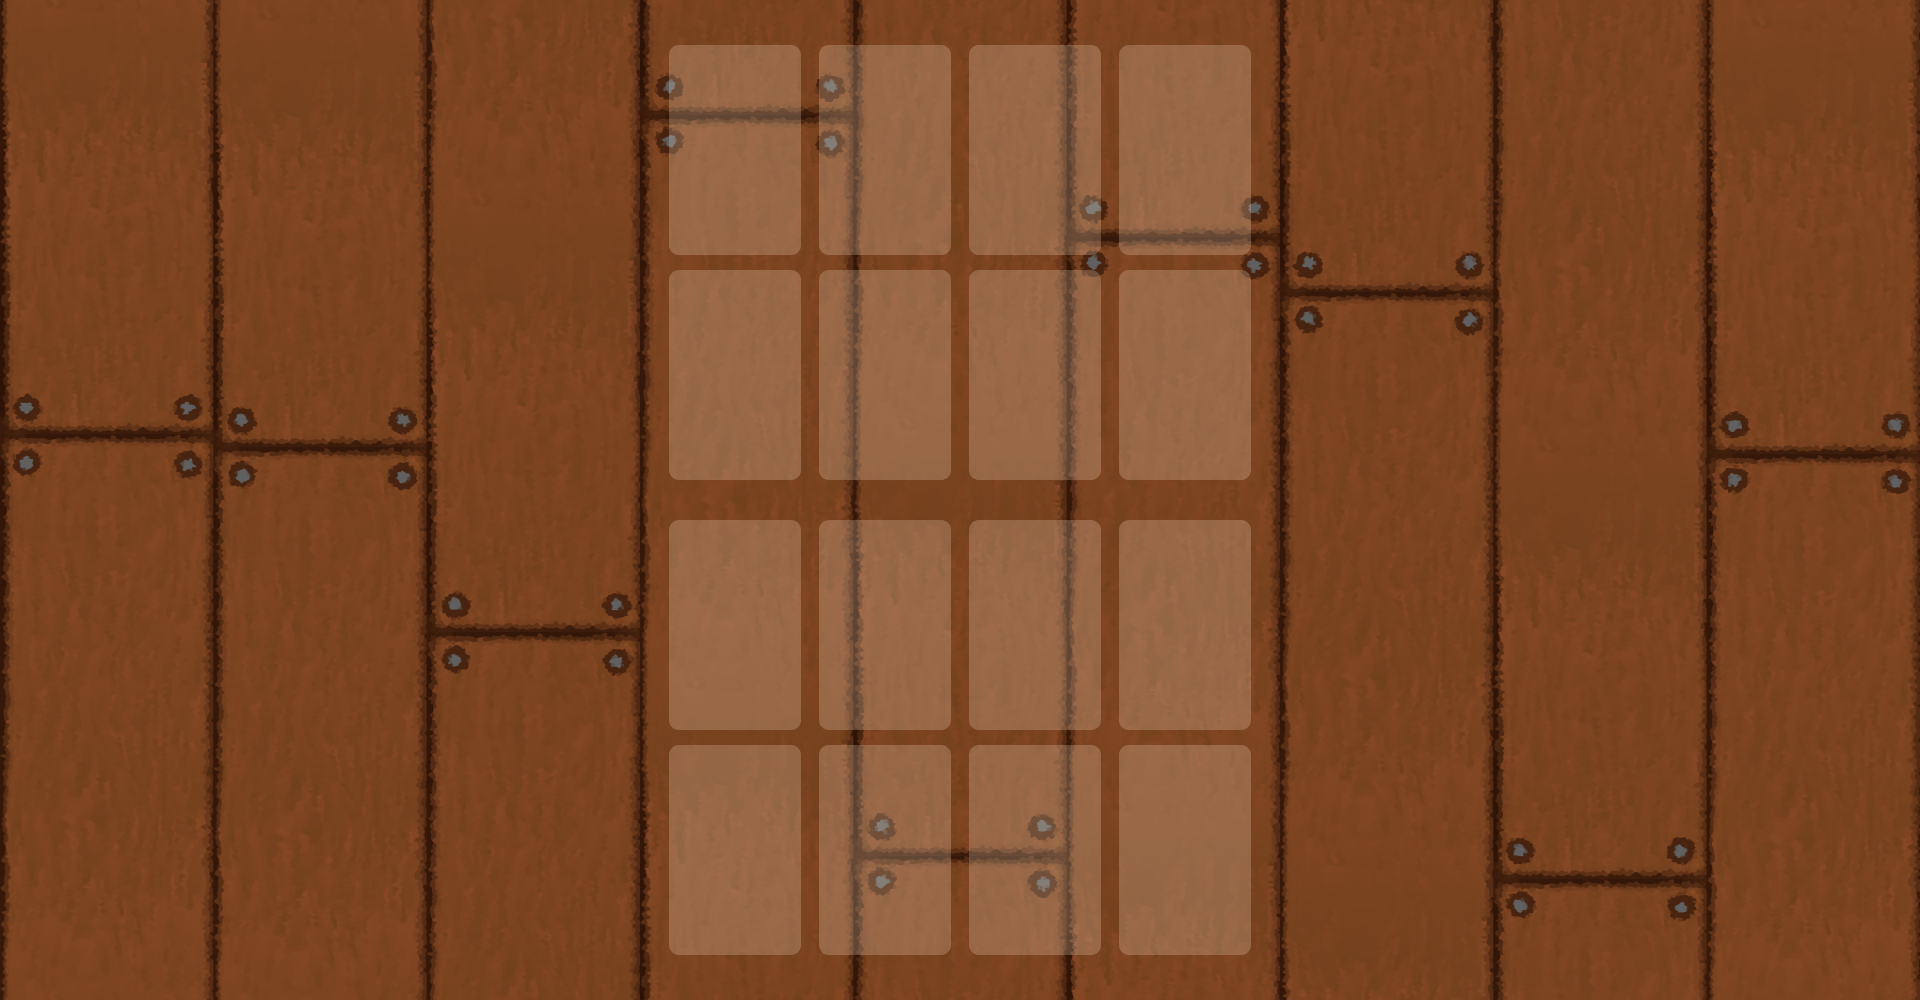
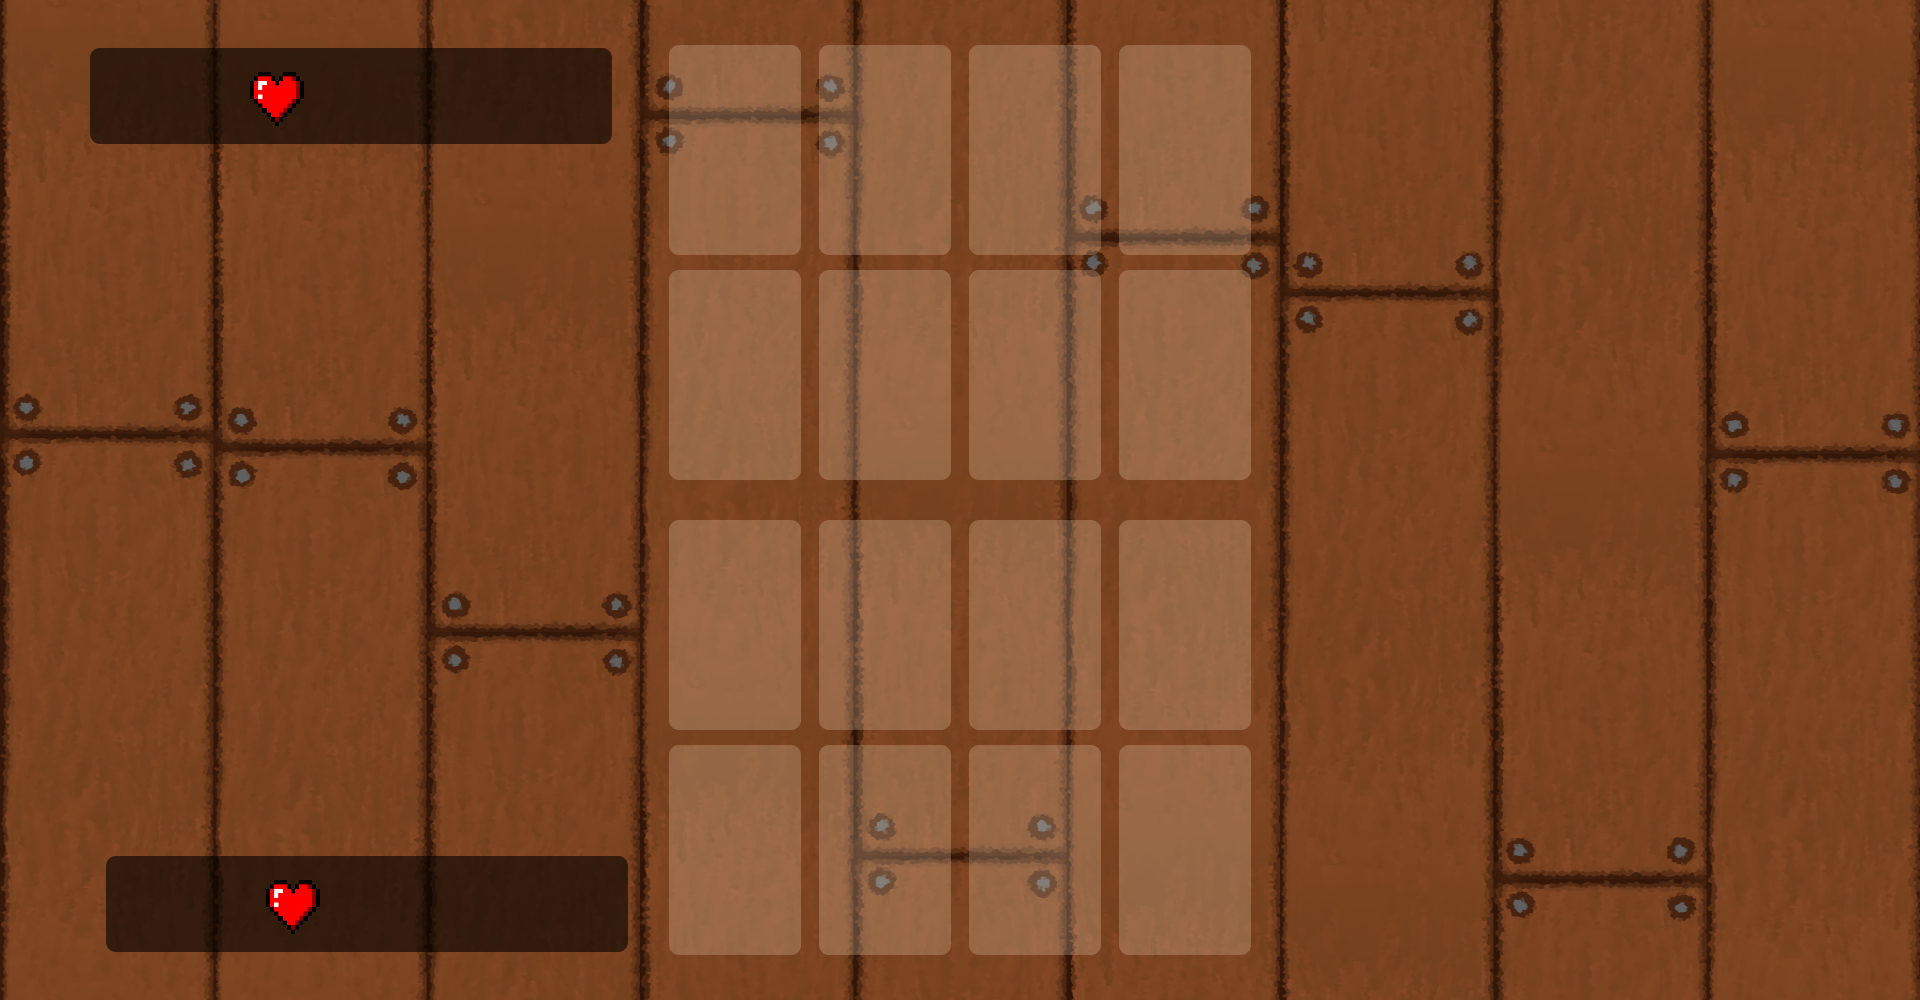
made cardboard a little prettier

Changed region(s): [[0.0312, 0.837, 0.3438, 0.961], [0.0312, 0.031, 0.3438, 0.155]]

diff --git a/GameWorld.cs b/GameWorld.cs
@@ -931,10 +931,17 @@ namespace PriateCardGame
         public void drawCardBoard(GameTime gameTime)
         {
             _spriteBatch.Draw(background, new Vector2(-150, 0), Color.White);
-            _spriteBatch.DrawString(Bigfont, $"Enemy Health {enemyHealth}", new Vector2(0, 0), Color.Black);
-            _spriteBatch.DrawString(Bigfont, $"Player Health {playerHealth}", new Vector2(0, 900), Color.Black);
-            _spriteBatch.DrawString(Bigfont, $"Turn : {playerTurn}", new Vector2(0, 100), Color.Black);
-            _spriteBatch.DrawString(Bigfont, $"Turn : {turn}", new Vector2(0, 200), Color.Black);
+            _spriteBatch.DrawString(Bigfont, $"{enemyHealth}", new Vector2(165, 75), Color.White);
+            _spriteBatch.DrawString(Bigfont, $"{playerHealth}", new Vector2(170, 880), Color.White);
+            if (playerTurn == true)
+            {
+                _spriteBatch.DrawString(Bigfont, $"Player", new Vector2(0, 100), Color.Black);
+            }
+            if (playerTurn == false)
+            {
+                _spriteBatch.DrawString(Bigfont, $"AI", new Vector2(0, 100), Color.Black);
+            }
+            //_spriteBatch.DrawString(Bigfont, $"Turn : {turn}", new Vector2(0, 200), Color.Black);
 
             foreach (var item in enemySpaces)
             {
